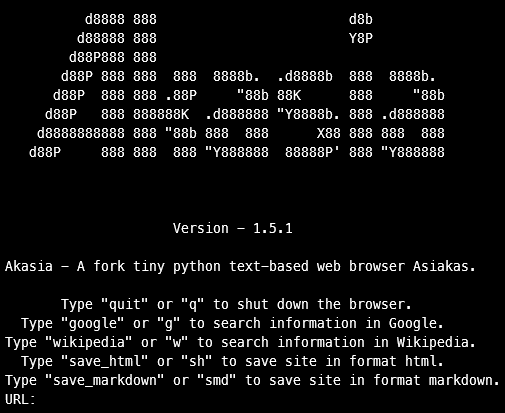
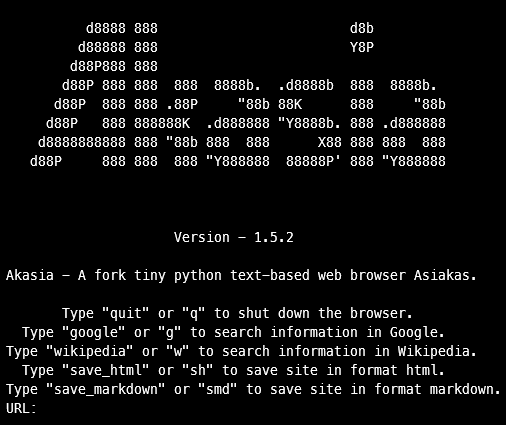
Added python 3.7 support

diff --git a/setup.py b/setup.py
@@ -5,7 +5,7 @@ setup.py is the Akasia setup file.
 from setuptools import setup
 
 setup(
-    version='1.5.1',
+    version='1.5.2',
     license="MIT License",
     name='Akasia',
     author='Robrecht De Rouck',
@@ -19,12 +19,13 @@ setup(
         "License :: OSI Approved :: MIT License",
         "Programming Language :: Python :: 3.9",
         "Programming Language :: Python :: 3.8",
+        "Programming Language :: Python :: 3.7",
         "Programming Language :: Python :: 3 :: Only",
         "Programming Language :: Python :: Implementation :: CPython",
         "Environment :: Console",
         "Intended Audience :: Developers",
     ],
-    python_requires=">=3.8",
+    python_requires=">=3.7",
     py_modules=['akasia'],
     entry_points={
         'console_scripts': ['akasia = akasia:main', ], },

diff --git a/docs/source/conf.py b/docs/source/conf.py
@@ -21,14 +21,14 @@ copyright = '2020, RIDERIUS'
 author = 'RIDERIUS'
 
 # The full version, including alpha/beta/rc tags
-release = '1.5.0'
+release = '1.5.2'
 
 # -- General configuration ---------------------------------------------------
 
 # Add any Sphinx extension module names here, as strings. They can be
 # extensions coming with Sphinx (named 'sphinx.ext.*') or your custom
 # ones.
-extensions = ["sphinx_rtd_theme", "sphinxcontrib.napoleon", "Akasia"]
+extensions = ["sphinx_rtd_theme", "sphinxcontrib.napoleon"]
 
 # Add any paths that contain templates here, relative to this directory.
 templates_path = ['_templates']

diff --git a/akasia.py b/akasia.py
@@ -5,7 +5,7 @@ import requests
 import html2text
 import wikipedia
 
-VERSION = '1.5.1'
+VERSION = '1.5.2'
 
 # pylint settings:
 # pylint: disable=E1101

diff --git a/CHANGELOG.rst b/CHANGELOG.rst
@@ -2,6 +2,11 @@
 Changelog
 =========
 
+Version 1.5.2
+=============
+
+- Added python 3.7 support
+
 Version 1.5.1
 =============
 
